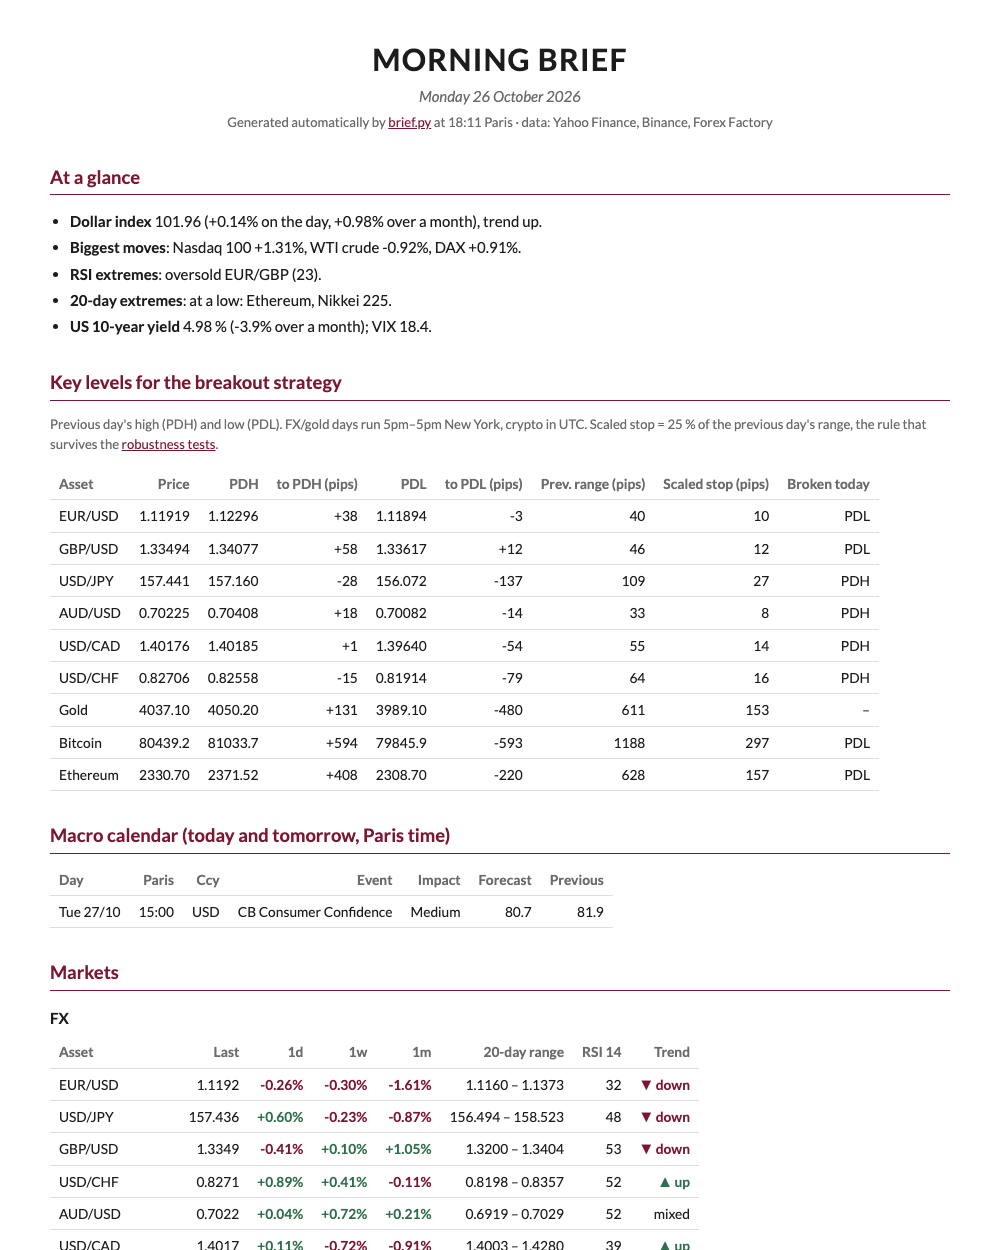
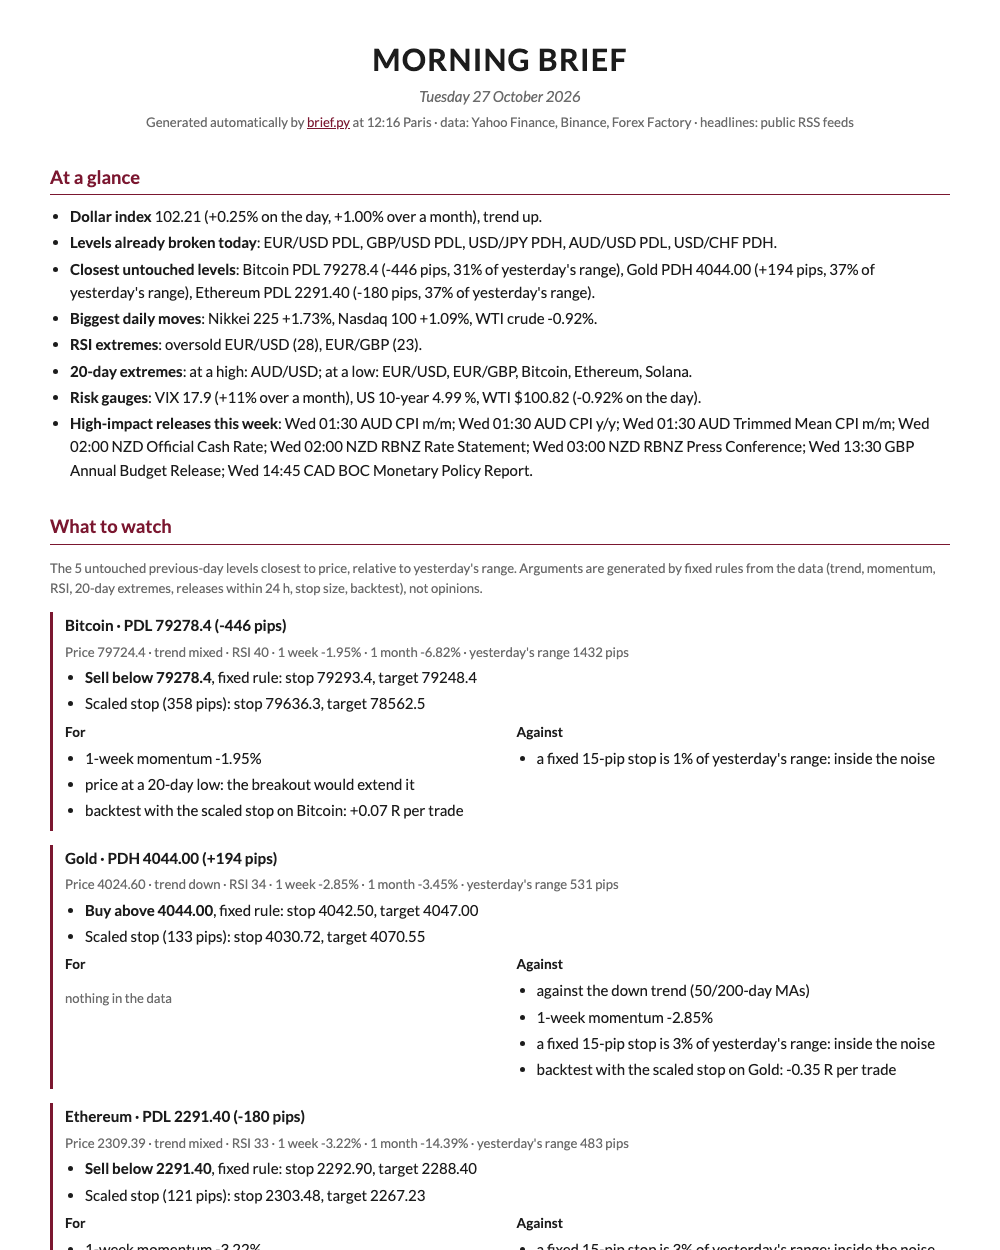
Refresh the README preview of the brief every morning

diff --git a/README.md b/README.md
@@ -8,7 +8,7 @@ arguments, macro calendar, headlines), a **backtest** of a previous-day high/low
 **[→ Today's morning brief](https://alban245.github.io/markets-research-lab/)** ·
 **[→ Archive](https://alban245.github.io/markets-research-lab/archive.html)** · **[→ Full robustness report](results/report.md)**
 
-[![Morning brief](results/brief_preview.png)](https://alban245.github.io/markets-research-lab/)
+[![Today's morning brief, refreshed every weekday](results/brief_preview.png)](https://alban245.github.io/markets-research-lab/)
 
 ## The strategy in one minute
 
